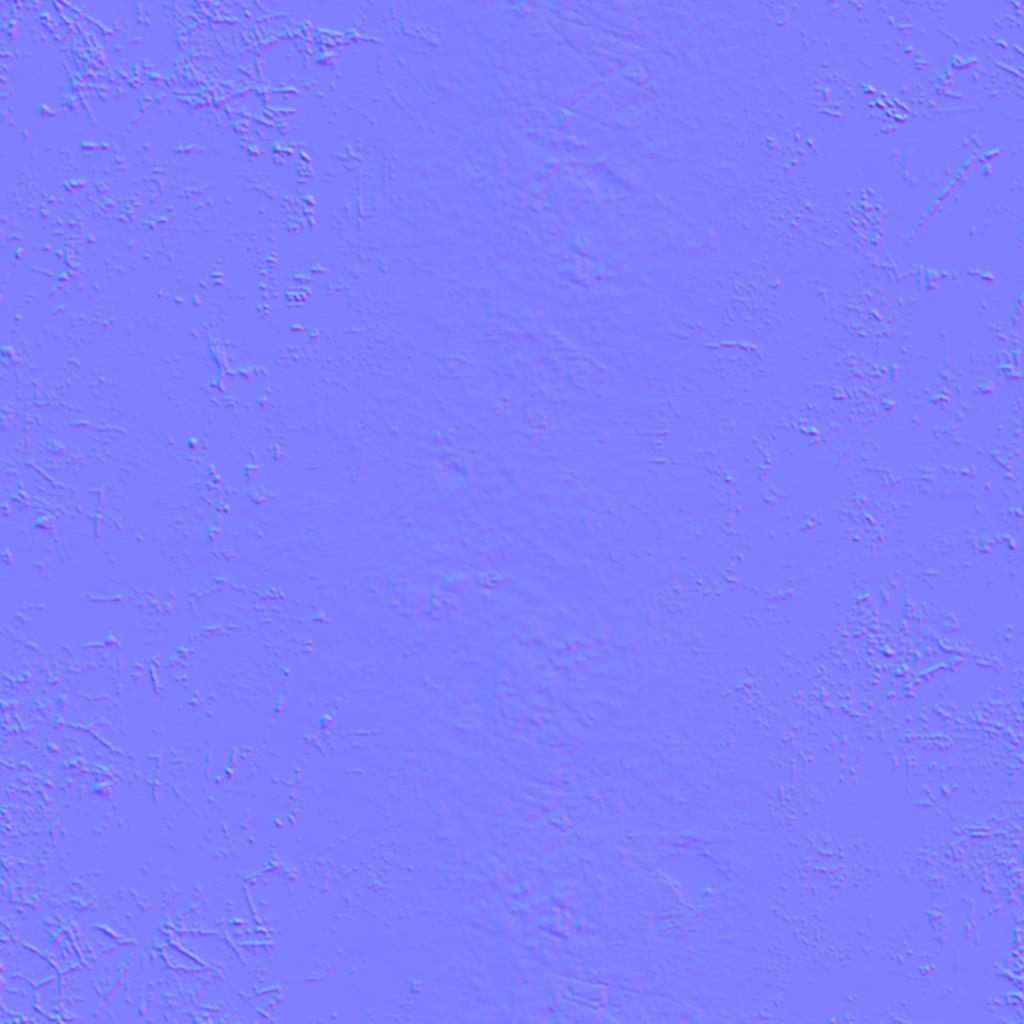
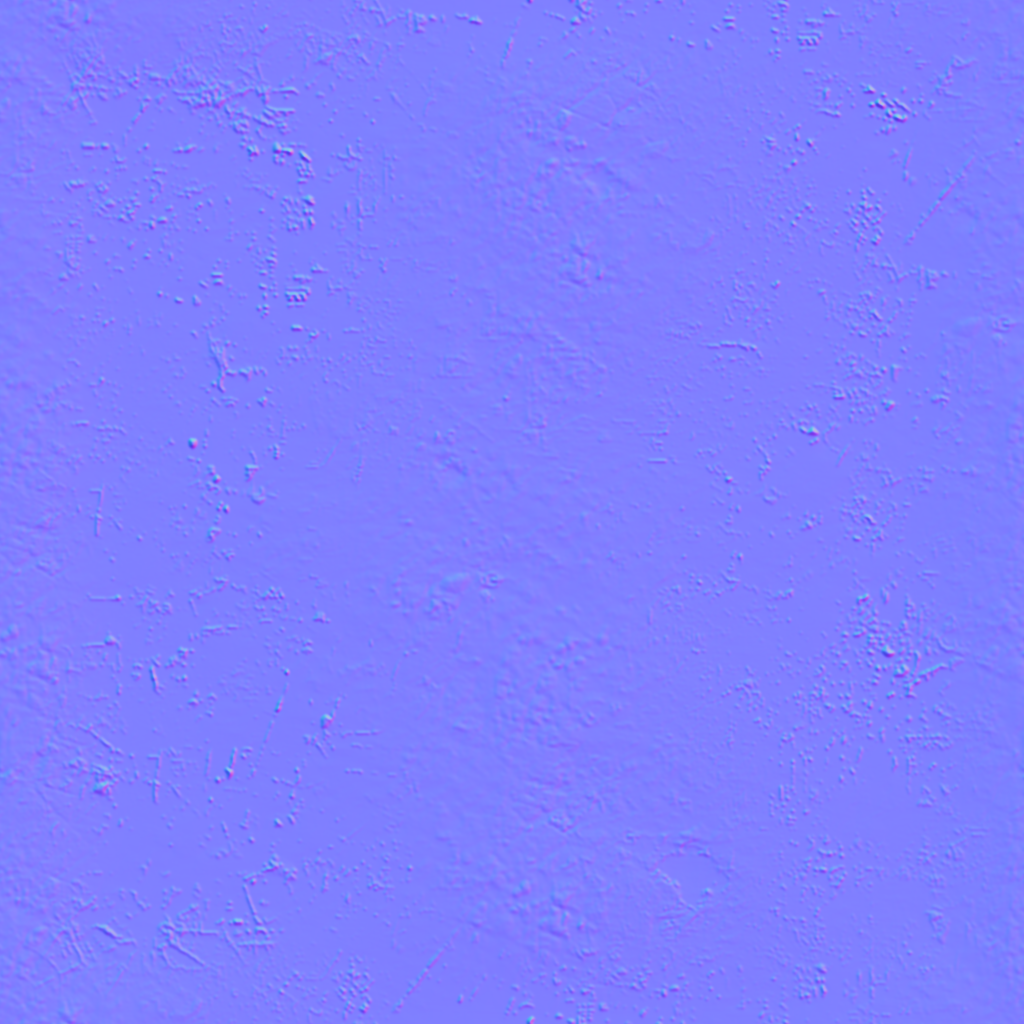
fix: make HD terrain and fog textures wrap seamlessly

diff --git a/tools/upscale4x.py b/tools/upscale4x.py
@@ -6,15 +6,18 @@
   one tile (`-t 1024`): its automatic 400 px tiling left visible seams.
   The backdrop mesh wraps these textures, so the ESRGAN detail is faded into
   a periodic Lanczos base near the edges; otherwise the upscaled edges do not
-  match and the repeats show as a checkerboard. The backdrop mesh samples
-  these minified across the screen and macroquad builds no mipmaps, so a 4x
-  copy (2048x2048) stalls the GPU and drops the frame rate; 2x holds 60 Hz.
+  match and the repeats show as a checkerboard. A final adaptive edge
+  crossfade (`tileable`) makes the texture's own wrap continuous; the base
+  alone was only continuous across the tiled pattern, so the fog textures
+  still showed a line at the texture edge. The backdrop mesh samples these
+  minified across the screen and macroquad builds no mipmaps, so a 4x copy
+  (2048x2048) stalls the GPU and drops the frame rate; 2x holds 60 Hz.
 - UI art, sprites and the bitmap font: xBR 4x (pixel-art aware), with the
   alpha channel upscaled separately so transparency survives.
 
 Outputs mirror the source layout under assets/4x/ and are regenerable.
 Usage:
-  tools/upscale4x.py [--esrgan DIR] [--only textures|ui|sprites|font|all]
+  tools/upscale4x.py [--esrgan DIR] [--only textures|seam|ui|sprites|font|all]
 """
 
 import argparse
@@ -129,6 +132,48 @@ def blend_seamless(detail: Image.Image, base: Image.Image, band: int) -> Image.I
     return Image.fromarray(out, "RGBA")
 
 
+def best_shift(a: np.ndarray, axis: int) -> float:
+    """The wrap offset that leaves the smallest edge step on one axis."""
+    h, w = a.shape[:2]
+    best = (0.0, float("inf"))
+    for frac in (1 / 8, 1 / 4, 3 / 8, 1 / 2, 5 / 8, 3 / 4, 7 / 8):
+        shift = int((h if axis == 0 else w) * frac)
+        rolled = np.roll(a, shift, axis=axis)
+        if axis == 0:
+            diff = np.abs(rolled[0, :, :3] - rolled[-1, :, :3]).mean()
+        else:
+            diff = np.abs(rolled[:, 0, :3] - rolled[:, -1, :3]).mean()
+        if diff < best[1]:
+            best = (frac, float(diff))
+    return best[0]
+
+
+def tileable(im: Image.Image, band: int) -> Image.Image:
+    """Crossfade the edges with a rolled copy so the texture wraps cleanly.
+
+    The current pipeline's periodic base is continuous across the tiled
+    pattern's boundaries but not at the crop's own edges, which is what
+    showed as a line where the backdrop wraps. The roll puts the source's
+    worst edge step at a better offset; the smooth mask keeps the centre
+    detail and makes the two edges the same rolled content.
+    """
+    mode = im.mode
+    a = np.asarray(im.convert("RGBA"), dtype=np.float32)
+    h, w = a.shape[:2]
+    sy = int(h * best_shift(a, 0))
+    sx = int(w * best_shift(a, 1))
+    rolled = np.roll(a, (sy, sx), axis=(0, 1))
+    y = np.arange(h, dtype=np.float32)
+    x = np.arange(w, dtype=np.float32)
+    dx = np.minimum(x, w - 1 - x) / band
+    dy = np.minimum(y, h - 1 - y) / band
+    m = np.clip(np.minimum(dx[None, :], dy[:, None]), 0.0, 1.0)
+    m = (m * m * (3.0 - 2.0 * m))[..., None]
+    out = np.clip(a * m + rolled * (1.0 - m), 0.0, 255.0).astype(np.uint8)
+    result = Image.fromarray(out, "RGBA")
+    return result if mode == "RGBA" else result.convert(mode)
+
+
 def edge_diff(dst: Path) -> float:
     a = np.asarray(Image.open(dst).convert("RGB"), dtype=np.float32)
     return float((np.abs(a[:, 0] - a[:, -1]).mean() + np.abs(a[0, :] - a[-1, :]).mean()) / 2.0)
@@ -150,9 +195,18 @@ def upscale_textures(esrgan: Path) -> None:
                 out = blend_seamless(half, seamless_base(p, 2), 24)
             else:
                 out = seamless_base(p, 2)
+            out = tileable(out, 128)
             out.save(dst, optimize=True)
         print("texture", p.name, "->", dst.relative_to(ROOT),
               "diff", round(verify(p, dst), 2), "edge", round(edge_diff(dst), 2))
+
+
+def seam_fix_dir(src_dir: Path, band: int = 128) -> None:
+    """Apply the edge crossfade to an already generated texture set."""
+    for p in sorted(src_dir.glob("*.png")):
+        out = tileable(Image.open(p), band)
+        out.save(p, optimize=True)
+        print("seam", p.name, "edge", round(edge_diff(p), 2))
 
 
 def upscale_dir(src: Path, dst_dir: Path, label: str) -> None:
@@ -181,13 +235,15 @@ def upscale_font() -> None:
 def main() -> None:
     ap = argparse.ArgumentParser()
     ap.add_argument("--esrgan", type=Path, default=DEFAULT_ESRGAN)
-    ap.add_argument("--only", choices=["textures", "ui", "sprites", "font", "all"],
+    ap.add_argument("--only", choices=["textures", "seam", "ui", "sprites", "font", "all"],
                     default="all")
     args = ap.parse_args()
     if FFMPEG is None:
         sys.exit("ffmpeg is required")
     if args.only in ("textures", "all"):
         upscale_textures(args.esrgan)
+    if args.only == "seam":
+        seam_fix_dir(OUT / "textures")
     if args.only in ("ui", "all"):
         upscale_dir(ROOT / "assets" / "ui", OUT / "ui", "ui")
     if args.only in ("sprites", "all"):

diff --git a/src/gfx.rs b/src/gfx.rs
@@ -97,12 +97,33 @@ fn title_bar_height() -> f32 {
     }
 }
 
+/// The display's backing scale. The window's own `backingScaleFactor` is
+/// still 1 before the window is shown, which made startup resolution
+/// changes half-size; NSScreen reports the real scale at that point.
+#[cfg(target_os = "macos")]
+fn display_scale() -> f32 {
+    use objc2::runtime::AnyObject;
+    use objc2::{class, msg_send};
+    unsafe {
+        let screen: *mut AnyObject = msg_send![class!(NSScreen), mainScreen];
+        if screen.is_null() {
+            return screen_dpi_scale();
+        }
+        let scale: f64 = msg_send![screen, backingScaleFactor];
+        if scale > 0.0 {
+            scale as f32
+        } else {
+            screen_dpi_scale()
+        }
+    }
+}
+
 /// Sets the window to a physical resolution. macOS window frames are in
 /// points, so the physical size is divided by the backing scale and the
 /// title bar is added; Windows and X11 take client pixels directly.
 pub fn set_window_resolution(width: u32, height: u32) {
     #[cfg(target_os = "macos")]
-    let scale = screen_dpi_scale();
+    let scale = display_scale();
     #[cfg(not(target_os = "macos"))]
     let scale = 1.0;
     #[cfg(target_os = "macos")]
